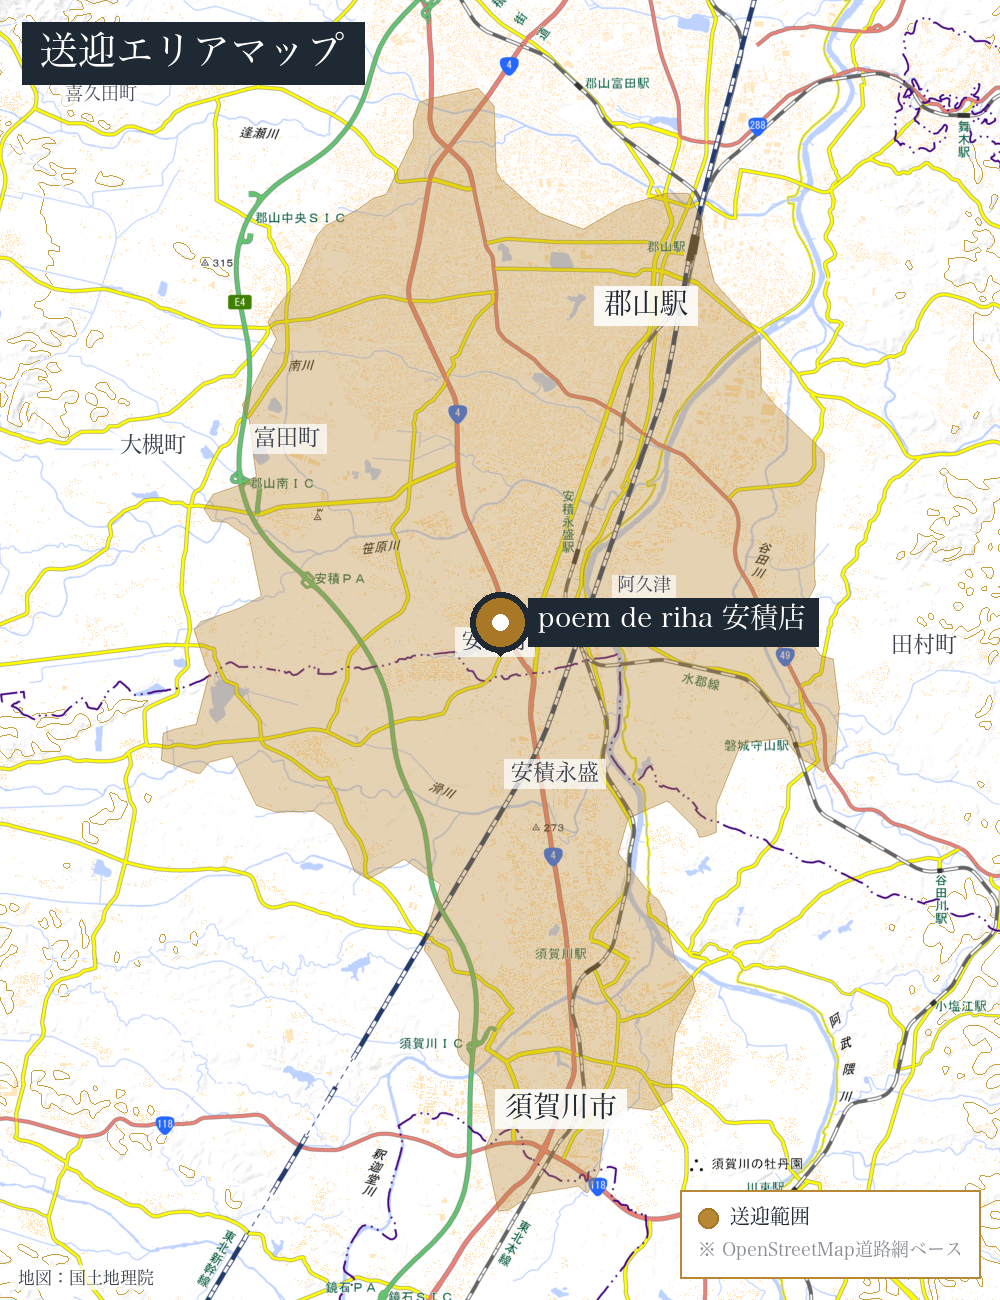
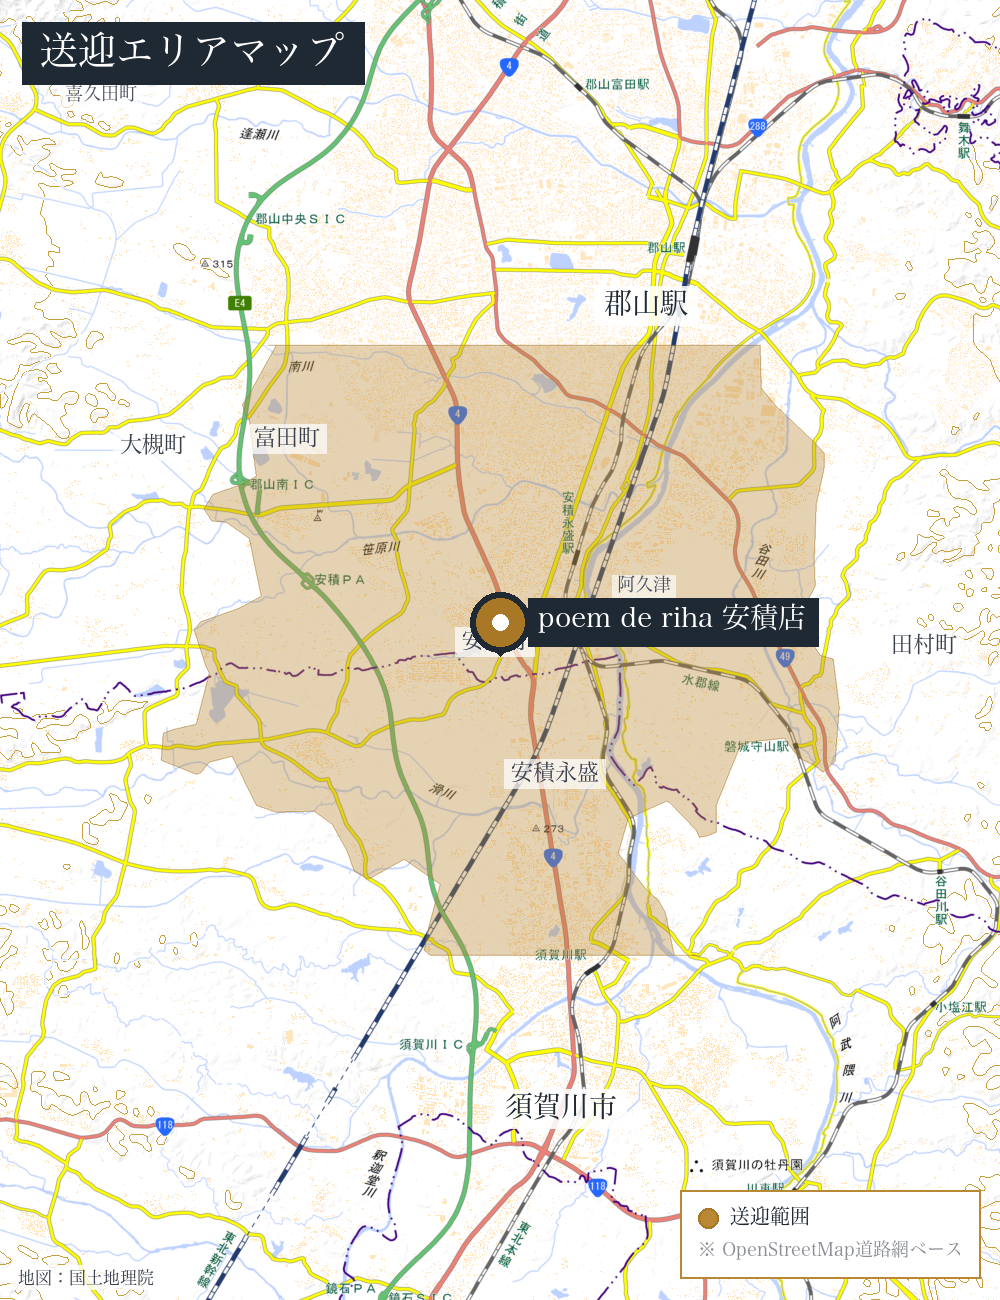
sougei-map: ボタン式CTAリンクに変更＋北南を4分でクリップ
poem-asaka.html：
- 静的画像を「🗺 送迎エリアはこちら →」のボタン式CTAに置き換え
- 印刷時は静的画像が出るように print-only-img を残す

isochrone スクリプト：
- 事業所ごとに ns_clip_range_sec を指定可能に
- 北南方向だけ別の到達時間範囲（短め）でクリップ
- 安積店は「東西7分／南北4分」で運用（4号線渋滞による北方向の過大評価を抑制）

対話型マップ：
- 凡例とトップバーを「東西7分／南北4分」表記に更新

diff --git a/poem-asaka.html b/poem-asaka.html
@@ -464,31 +464,37 @@
       margin-bottom: 14px;
       letter-spacing: 0.04em;
     }
-    .sougei-area-map img {
-      display: block;
-      width: 100%;
-      height: auto;
-      border: 1px solid var(--line);
+    .sougei-area-map .print-only-img { display: none; }
+    .sougei-area-map .map-cta {
+      display: flex; align-items: center; gap: 18px;
+      padding: 18px 24px;
+      background: var(--ink); color: #fff;
+      text-decoration: none; border-radius: 4px;
+      transition: background 0.15s, transform 0.15s;
+      border: 1px solid var(--ink);
     }
-    .sougei-area-map .map-link {
-      position: relative; display: block;
-      transition: opacity 0.15s;
+    .sougei-area-map .map-cta:hover {
+      background: var(--gold); border-color: var(--gold);
     }
-    .sougei-area-map .map-link:hover { opacity: 0.92; }
-    .sougei-area-map .map-zoom-hint {
-      position: absolute; right: 16px; bottom: 16px;
-      background: rgba(31, 41, 51, 0.92); color: #fff;
-      padding: 8px 16px; border-radius: 4px;
-      font-size: 13px; font-weight: 600;
-      letter-spacing: 0.04em;
-      box-shadow: 0 4px 10px rgba(0,0,0,0.2);
-      pointer-events: none;
+    .sougei-area-map .map-cta-icon { font-size: 28px; line-height: 1; }
+    .sougei-area-map .map-cta-body {
+      display: flex; flex-direction: column; gap: 2px; flex: 1;
+    }
+    .sougei-area-map .map-cta-body strong {
+      font-family: 'Noto Serif JP', serif;
+      font-size: 16px; font-weight: 600; letter-spacing: 0.06em;
+    }
+    .sougei-area-map .map-cta-body em {
+      font-size: 12px; font-style: normal; opacity: 0.8;
+      letter-spacing: 0.02em;
+    }
+    .sougei-area-map .map-cta-arrow {
+      font-size: 22px; opacity: 0.7;
     }
     @media (max-width: 600px) {
-      .sougei-area-map .map-zoom-hint {
-        right: 8px; bottom: 8px;
-        padding: 6px 10px; font-size: 11px;
-      }
+      .sougei-area-map .map-cta { padding: 14px 16px; gap: 12px; }
+      .sougei-area-map .map-cta-body strong { font-size: 14px; }
+      .sougei-area-map .map-cta-body em { font-size: 11px; }
     }
     .sougei-area-map p {
       margin-top: 12px;
@@ -776,12 +782,14 @@
         font-size: 11pt;
         margin-bottom: 4mm;
       }
-      .sougei-area-map img {
+      .sougei-area-map .map-cta { display: none !important; }
+      .sougei-area-map .print-only-img {
+        display: block !important;
         max-height: 105mm;
         width: auto;
         max-width: 100%;
         margin: 0 auto;
-        display: block;
+        border: 1px solid var(--line);
       }
       .sougei-area-map p {
         font-size: 8pt;
@@ -1153,13 +1161,17 @@
       </div>
 
       <div class="sougei-area-map">
-        <h4>🚐 送迎範囲マップ</h4>
-        <a href="sougei-area-asaka.html" target="_blank" rel="noopener" title="クリックで拡大表示（ズーム・移動可能）" class="map-link">
-          <img src="photos/sougei-area-asaka.png" alt="送迎範囲マップ：施設を中心とした送迎可能エリア">
-          <span class="map-zoom-hint">🔍 クリックで拡大マップを開く</span>
+        <h4>🚐 送迎範囲</h4>
+        <a href="sougei-area-asaka.html" target="_blank" rel="noopener" class="map-cta">
+          <span class="map-cta-icon">🗺</span>
+          <span class="map-cta-body">
+            <strong>送迎エリアはこちら</strong>
+            <em>クリックで対話型マップが開きます（ズーム・移動可）</em>
+          </span>
+          <span class="map-cta-arrow">→</span>
         </a>
-        <p>※ 拡大マップではズーム・移動が自由にでき、より細かい地名も確認できます。<br>
-          上記範囲外でもお気軽にご相談ください。地図データ © OpenStreetMap contributors / OpenRouteService</p>
+        <img src="photos/sougei-area-asaka.png" alt="送迎範囲マップ" class="print-only-img">
+        <p>※ 上記範囲外でもお気軽にご相談ください。地図データ © OpenStreetMap contributors / OpenRouteService</p>
       </div>
 
       <div class="access-map-print">

diff --git a/sougei-area-asaka.html b/sougei-area-asaka.html
@@ -43,12 +43,13 @@
 <body>
 <div class="topbar">
   <h1>🚐 poem de riha 安積店｜送迎範囲</h1>
-  <div class="meta">片道7分（実走行ベース）／ 国土地理院タイル<br>
+  <div class="meta">片道7分（東西）／ 4分（南北・4号線渋滞考慮）<br>
     <a href="poem-asaka.html">← 案内ページに戻る</a>
   </div>
 </div>
 <div class="legend">
-  <span class="swatch"></span>送迎範囲（片道7分）
+  <span class="swatch"></span>送迎範囲<br>
+  <small style="font-size:10px;color:#6b7280">東西7分／南北4分</small>
 </div>
 <div id="map"></div>
 

diff --git a/tools/generate-isochrone-map.py b/tools/generate-isochrone-map.py
@@ -31,7 +31,8 @@ FACILITIES = [
         'name': 'poem de riha 安積店',
         'slug': 'asaka',
         'lat': 37.349490, 'lng': 140.362112,
-        'range_sec': 420,  # 片道7分
+        'range_sec': 420,  # 片道7分（東西方向）
+        'ns_clip_range_sec': 240,  # 北南は4分相当でクリップ（4号線渋滞考慮）
         'zoom': 13,
         'tile_url': 'https://cyberjapandata.gsi.go.jp/xyz/std/{z}/{x}/{y}.png',  # 国土地理院 標準地図
         'tile_attribution': '地図：国土地理院',
@@ -152,11 +153,37 @@ def render_facility(fac, output_dir, zoom=12, w=1400, h=900):
     w = fac.get('width', w)
     h = fac.get('height', h)
     range_sec = fac.get('range_sec', 600)
+    ns_clip_sec = fac.get('ns_clip_range_sec')
     tile_url = fac.get('tile_url', 'https://a.tile.openstreetmap.org/{z}/{x}/{y}.png')
     tile_attr = fac.get('tile_attribution', '地図：OpenStreetMap')
-    print(f"--- {fac['name']} （片道 {range_sec // 60}分）---")
+    note = f"片道 {range_sec // 60}分"
+    if ns_clip_sec:
+        note += f"（北南は {ns_clip_sec // 60}分でクリップ）"
+    print(f"--- {fac['name']} （{note}）---")
     geo = fetch_isochrones(fac['lat'], fac['lng'], range_sec)
     features = sorted(geo['features'], key=lambda f: -f['properties']['value'])
+
+    # 北南クリップ：別の到達時間で取得した範囲の緯度を上下限として、
+    # メインポリゴンの北南を制限する（東西は触らない）
+    if ns_clip_sec:
+        try:
+            print(f"  北南クリップ用に {ns_clip_sec//60}分範囲を取得中…")
+            import time
+            time.sleep(2)
+            ns_geo = fetch_isochrones(fac['lat'], fac['lng'], ns_clip_sec)
+            ns_lats = [pt[1] for f_ in ns_geo['features']
+                       for ring in f_['geometry']['coordinates']
+                       for pt in ring]
+            min_lat, max_lat = min(ns_lats), max(ns_lats)
+            print(f"  クリップ緯度: {min_lat:.4f} 〜 {max_lat:.4f}")
+            for ft in features:
+                ft['geometry']['coordinates'] = [
+                    [[lng, max(min(lat, max_lat), min_lat)] for lng, lat in ring]
+                    for ring in ft['geometry']['coordinates']
+                ]
+            geo['features'] = features
+        except Exception as e:
+            print(f"  ⚠ 北南クリップ失敗（処理続行）: {e}")
 
     m = StaticMap(w, h, url_template=tile_url, padding_x=20, padding_y=20)
 
